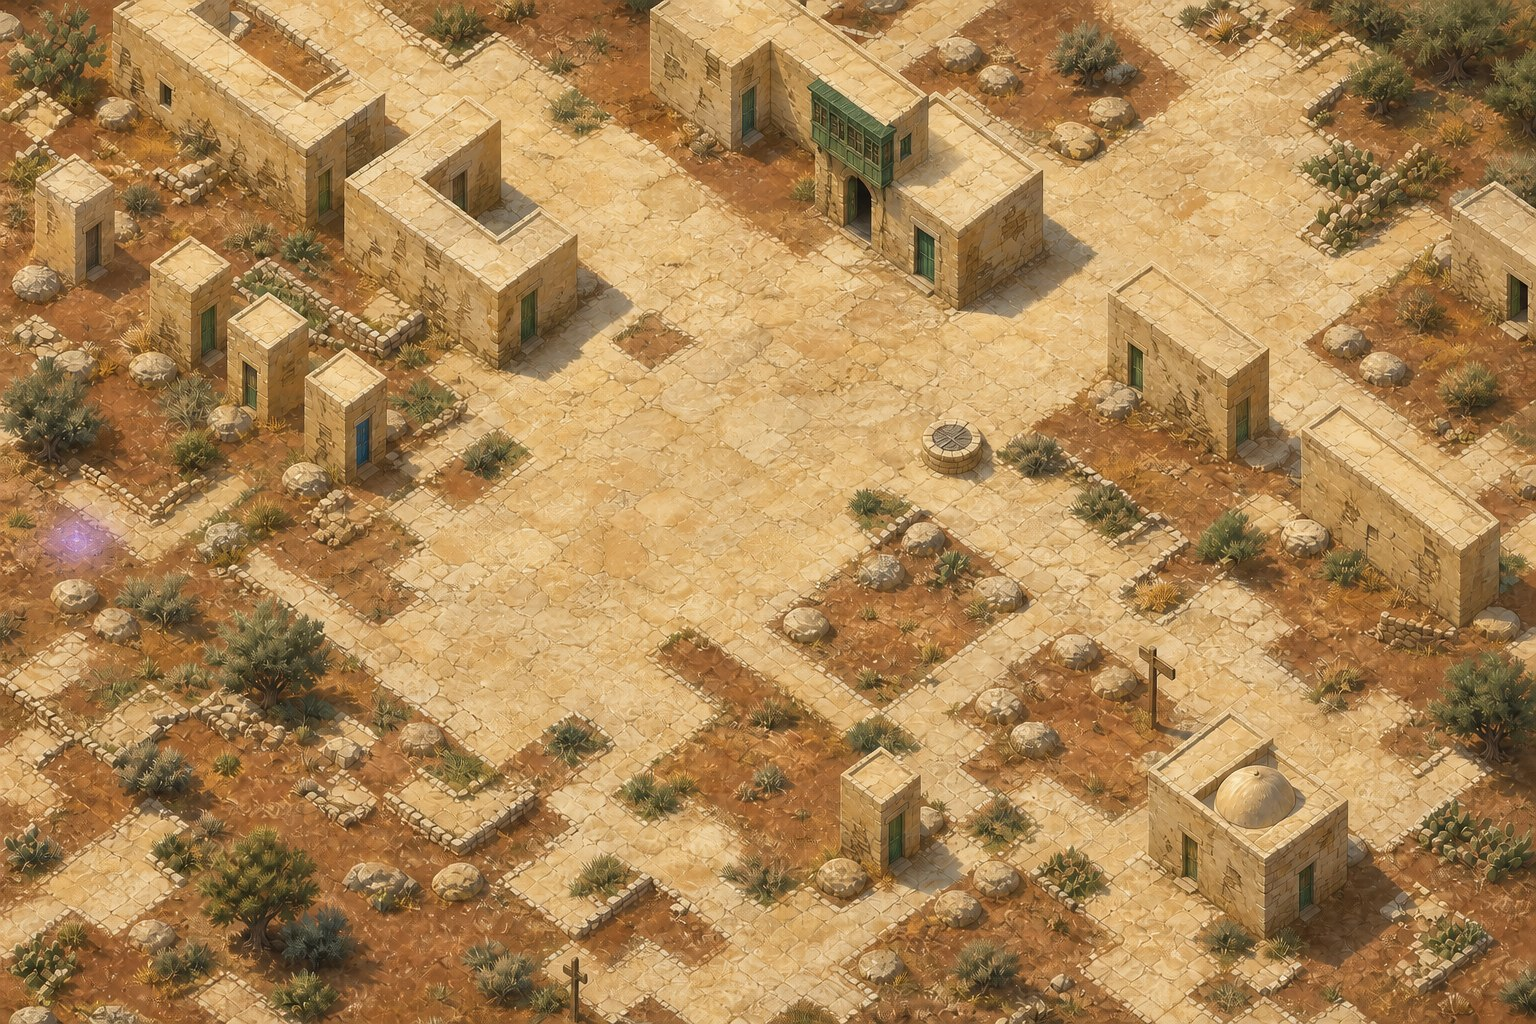
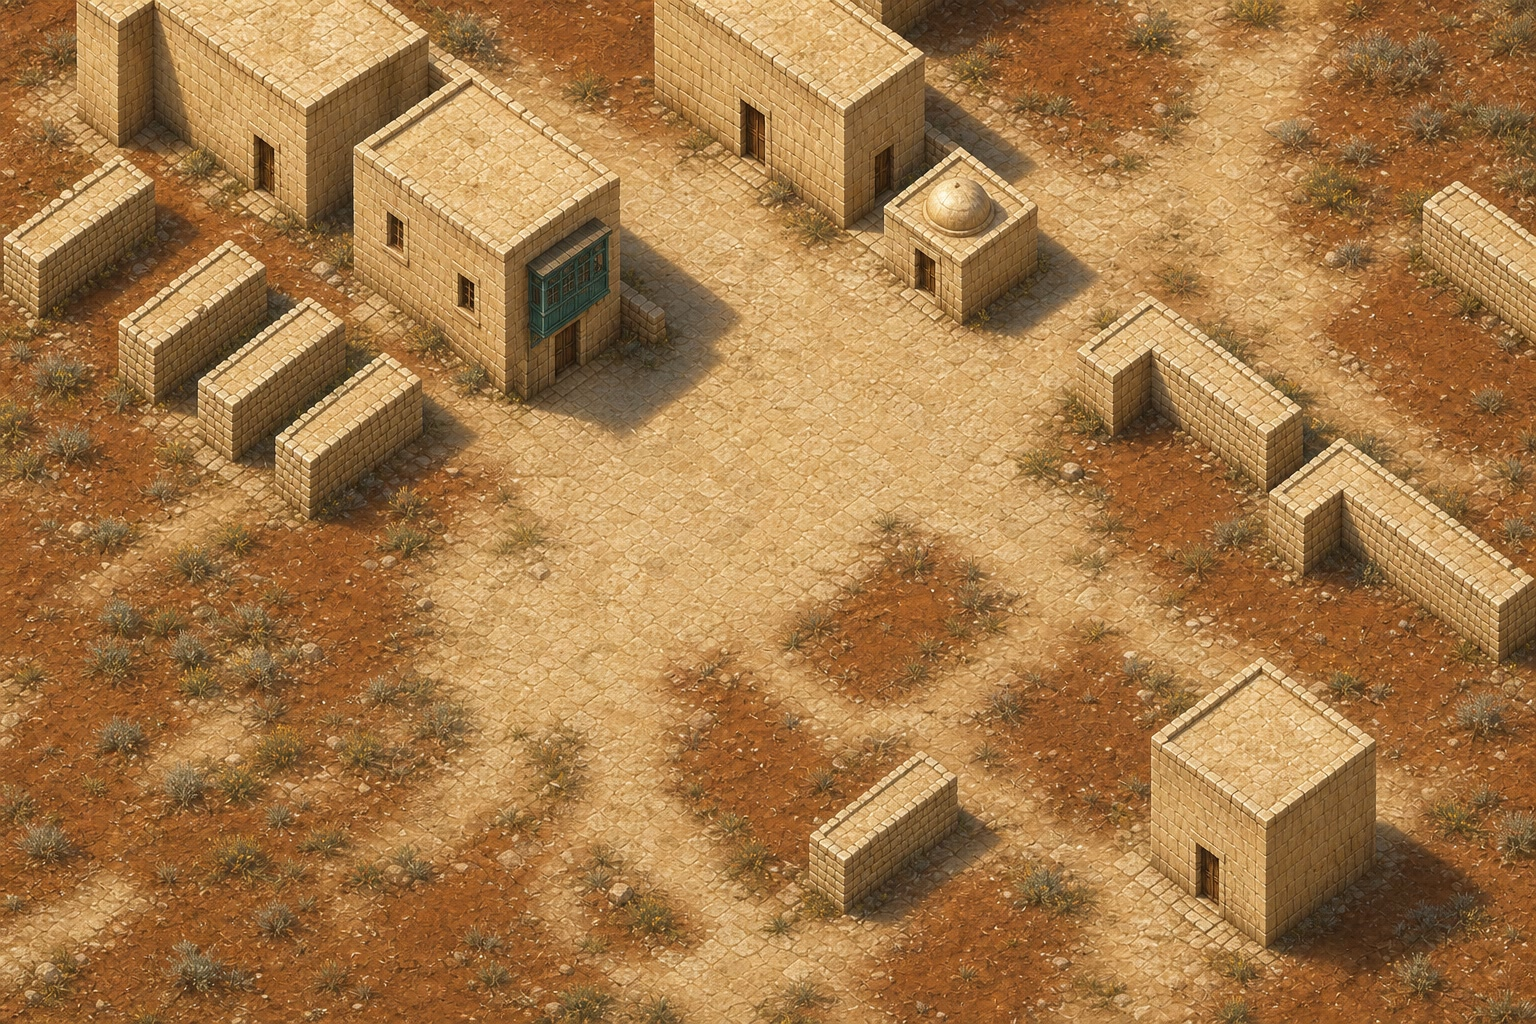
build 367 — the island is painted, and you can stand behind a building
Sixteen of sixty-three screens are painted pictures rather than tile diamonds:
the arrival screen where the ruin puts you out, the whole road south to the
necropolis, all of Wayrest, and both dungeon mouths drawn as rock-cut descents
you can see you enter. Void per screen is 0.0-1.1% where the bare diamond left
68%.

Buildings are solid volumes now — a lit face, a shaded face, one sun for the
whole island, a cast shadow on the ground, and a gallarija on the tavern.

OCCLUSION IS SOLVED, not deferred: the tall parts are cut back out of the
painting per footprint tile and depth-sorted with the actors, so standing
behind a building hides you and standing in front does not. Proven both ways
headless.

The 47 unpainted screens fall back to the tile renderer, so nothing regresses
while the rest are painted.

Claude-Session: https://claude.ai/code/session_01Q55X5n8LA6xgNosSpJws7r

diff --git a/qawmien/world.js b/qawmien/world.js
@@ -737,6 +737,138 @@ const WORLD = (() => {
     return (SURROUND[m.id] = best.length ? best : [WT.TILES.GRASS]);
   }
 
+  /* ── OCCLUSION on painted maps ────────────────────────────────────────
+     A painted background is ONE picture, so the hero drawn after it always
+     stood in front of every wall — walking "behind" the tavern drew him on
+     its roof. Dofus composes exactly this split: a background JPEG per map,
+     plus everything a character can pass behind as separate sprites drawn
+     in base-Y order. So the tall things are CUT BACK OUT of the painting:
+     one canvas piece per building (and per tree), clipped to the same prism
+     silhouette the template extruded (tools/blockout.py, BLD_H there — the
+     numbers below are that shared arithmetic), anchored at its base tile
+     and depth-sorted into the same queue as actors and the hero. Hero
+     behind the wall: the piece draws after him and hides him. Hero in
+     front: his depth is greater and he draws over it. The picture never
+     decides walkability; this never looks at block[][] for anything but
+     WHERE the tall things stand. */
+  function buildOcclusion(map, img, R){
+    const D_ROCK = 26, D_TREE = 24, SPAN = 4;
+    const BLD_H = TH * 2.0, LOW_H = TH * 0.8;
+    const wall = (c, r) => c >= 0 && r >= 0 && c < map.w && r < map.h &&
+                           !!map.block[r][c] && map.decor[r][c] === D_ROCK;
+    const pieces = [], seen = {};
+    const comps = [];
+    for (let r = 0; r < map.h; r++)
+      for (let c = 0; c < map.w; c++){
+        if (!wall(c, r) || seen[c + ',' + r]) continue;
+        const comp = [], st = [[c, r]];
+        seen[c + ',' + r] = 1;
+        while (st.length){
+          const [cc, rr] = st.pop();
+          comp.push([cc, rr]);
+          for (const [dc, dr] of [[1,0],[-1,0],[0,1],[0,-1]]){
+            const nc = cc + dc, nr = rr + dr;
+            if (wall(nc, nr) && !seen[nc + ',' + nr]){
+              seen[nc + ',' + nr] = 1; st.push([nc, nr]);
+            }
+          }
+        }
+        comps.push(comp);
+      }
+    for (const comp of comps){
+      if (comp.length < 3) continue;               /* a boulder, painted flat */
+      /* the footprint is the rectilinear closure — same rule as the
+         template, so the cut-out clips exactly what was extruded */
+      const foot = {};
+      for (const [c, r] of comp) foot[c + ',' + r] = 1;
+      const rows = {}, cols = {};
+      for (const [c, r] of comp){
+        (rows[r] = rows[r] || []).push(c);
+        (cols[c] = cols[c] || []).push(r);
+      }
+      for (const r in rows){
+        const cs = rows[r].sort((a, b) => a - b);
+        for (let i = 1; i < cs.length; i++)
+          if (cs[i] - cs[i-1] > 1 && cs[i] - cs[i-1] <= SPAN + 1)
+            for (let c = cs[i-1] + 1; c < cs[i]; c++) foot[c + ',' + r] = 1;
+      }
+      for (const c in cols){
+        const rs = cols[c].sort((a, b) => a - b);
+        for (let i = 1; i < rs.length; i++)
+          if (rs[i] - rs[i-1] > 1 && rs[i] - rs[i-1] <= SPAN + 1)
+            for (let r = rs[i-1] + 1; r < rs[i]; r++) foot[c + ',' + r] = 1;
+      }
+      /* ONE PIECE PER TILE, not per building. A terrace of party-walled
+         houses spans depths 5..16; cut as one piece at depth 16 it hid a
+         hero standing in FRONT of its shallow west end (seen in the first
+         headless run). Per tile, each column of the volume sorts at its
+         own base depth like any decor tile, the pieces are cut from the
+         same painting so together they re-compose it exactly, and the
+         hero slots between them wherever he truly stands. */
+      const tiles = Object.keys(foot).map(k => k.split(',').map(Number));
+      const H = tiles.length === comp.length ? LOW_H : BLD_H;
+      for (const t of tiles) pieces.push(makePiece([t], H, img, R));
+    }
+    /* trees: a canopy is the other thing a hero walks behind */
+    for (let r = 0; r < map.h; r++)
+      for (let c = 0; c < map.w; c++)
+        if (map.block[r][c] && map.decor[r][c] === D_TREE)
+          pieces.push(makeTreePiece(c, r, img, R));
+    return pieces;
+  }
+
+  function pieceFromClip(tiles, img, R, bounds, clip){
+    const [x0, y0, x1, y1] = bounds;
+    const w = Math.ceil(x1 - x0), h = Math.ceil(y1 - y0);
+    const cv = document.createElement('canvas');
+    /* board units 1:1 — the same resolution the background is drawn at */
+    cv.width = w; cv.height = h;
+    const c2 = cv.getContext('2d');
+    c2.translate(-x0, -y0);
+    clip(c2);
+    c2.clip();
+    c2.imageSmoothingEnabled = true;
+    c2.drawImage(img, R.x, R.y, R.w, R.h);
+    let d = -1e9;
+    for (const [c, r] of tiles) d = Math.max(d, c + r);
+    return { cv, x: x0, y: y0, d };
+  }
+
+  function makePiece(tiles, H, img, R){
+    const HEAD = TH * 0.9;               /* domes and parapets overpaint the box */
+    const T = H + HEAD;                  /* clip the full raised top face */
+    let x0 = 1e9, y0 = 1e9, x1 = -1e9, y1 = -1e9;
+    const hexes = [];
+    for (const [c, r] of tiles){
+      const bx = WT.isoX(c, r), by = WT.isoY(c, r);
+      hexes.push([[bx, by - T - TH / 2], [bx + TW / 2, by - T],
+                  [bx + TW / 2, by], [bx, by + TH / 2],
+                  [bx - TW / 2, by], [bx - TW / 2, by - T]]);
+      x0 = Math.min(x0, bx - TW / 2); x1 = Math.max(x1, bx + TW / 2);
+      y0 = Math.min(y0, by - T - TH / 2); y1 = Math.max(y1, by + TH / 2);
+    }
+    return pieceFromClip(tiles, img, R, [x0, y0, x1, y1], (c2) => {
+      c2.beginPath();
+      for (const hx of hexes){
+        c2.moveTo(hx[0][0], hx[0][1]);
+        for (let i = 1; i < hx.length; i++) c2.lineTo(hx[i][0], hx[i][1]);
+        c2.closePath();
+      }
+    });
+  }
+
+  function makeTreePiece(c, r, img, R){
+    const bx = WT.isoX(c, r), by = WT.isoY(c, r);
+    const cx = bx + TW * 0.04, cy = by - TH * 1.25;    /* template's canopy */
+    const rx = TW * 0.60, ry = TH * 0.80;
+    const bounds = [cx - rx, cy - ry, cx + rx, Math.max(cy + ry, by + 2)];
+    return pieceFromClip([[c, r]], img, R, bounds, (c2) => {
+      c2.beginPath();
+      c2.ellipse(cx, cy, rx, ry, 0, 0, Math.PI * 2);
+      c2.rect(bx - 5, by - TH * 1.25, 10, TH * 1.25 + 2);
+    });
+  }
+
   function draw(g){
     fit(g.canvas);
     g.setTransform(1, 0, 0, 1, 0, 0);
@@ -802,6 +934,7 @@ const WORLD = (() => {
         }
         g.imageSmoothingEnabled = true;
         g.drawImage(b.img, R.x, R.y, R.w, R.h);
+        if (!map._occ) map._occ = buildOcclusion(map, b.img, R);
         bgUp = true;
       }
     }
@@ -876,6 +1009,10 @@ const WORLD = (() => {
         const i = map.decor[r][c];
         if (i) q.push({ d: c + r, k: 0, i, x: WT.isoX(c, r), y: WT.isoY(c, r) });
       }
+    /* the tall parts of the painting, cut back out so they can occlude:
+       depth-sorted by their base like any decor (see buildOcclusion) */
+    if (bgUp && map._occ)
+      for (const p of map._occ) q.push({ d: p.d, k: 0, occ: p });
     for (const a of actors)
       q.push({ d: a.mk.c + a.mk.r, k: 1, a,
                x: WT.isoX(a.mk.c, a.mk.r), y: WT.isoY(a.mk.c, a.mk.r) });
@@ -883,7 +1020,8 @@ const WORLD = (() => {
     q.sort((A, B) => (A.d - B.d) || (A.k - B.k));    /* stable for the rest */
     for (const e of q){
       if (e.k === 0){
-        if (atlas && atlas.ready) WT.drawTile(g, atlas.img, e.i, e.x, e.y);
+        if (e.occ) g.drawImage(e.occ.cv, e.occ.x, e.occ.y);
+        else if (atlas && atlas.ready) WT.drawTile(g, atlas.img, e.i, e.x, e.y);
         else fbDecor(g, e.i, e.x, e.y);
       }
       else if (e.hero) drawHero(g);

diff --git a/sw.js b/sw.js
@@ -2,7 +2,7 @@
    Deliberately narrow: it never touches cross-origin requests and never
    touches range requests, because a greedy SW broke a previous project.
    Bump CACHE on every deploy. */
-const CACHE = 'karti-v366';
+const CACHE = 'karti-v367';
 /* ── THE SHELL, NOT THE GAME ─────────────────────────────────────────────────
    This list used to be 205 entries / ~24 MB — every game module and every
    per-game portrait — so a first install (and EVERY version bump) re-fetched

diff --git a/qawmien/maps/field-3-6.js b/qawmien/maps/field-3-6.js
@@ -11,8 +11,8 @@ window.MAPS['field-3-6'] = {
      from this map's own blockout template (tools/blockout.py --map
      field-3-6), so the art agrees with block[][] by construction.
      block/markers/neighbours below still rule walkability, untouched.
-     NOTE for regeneration: mkworld.py does not know this key yet — if
-     the world is regenerated, re-add `bg` here. */
+     mkworld.py re-derives this key from art/bg/<id>.jpg existing, so a
+     regeneration keeps every painting. */
   bg: 'art/bg/field-3-6.jpg',
   ground: [
     [20,20,20,20,20,20,20,16,20,16],

diff --git a/index.html b/index.html
@@ -2449,7 +2449,7 @@ window.KARTI_THEME = (function(){
    over a MessageChannel, and the answer comes from the script iOS actually
    activated — not from the server, not from a constant. Keep BUILD in step
    with CACHE in sw.js (bump both on every deploy). */
-var KARTI_BUILD = 366;
+var KARTI_BUILD = 367;
 window.KARTI_BUILD = KARTI_BUILD;
 window.swVersion = function(){
   return new Promise(function(resolve){

diff --git a/qawmien/maps/field-1-1.js b/qawmien/maps/field-1-1.js
@@ -6,6 +6,7 @@
 window.MAPS = window.MAPS || {};
 window.MAPS['field-1-1'] = {
   id: 'field-1-1', w: 10, h: 10, atlas: 'art/world.png',
+  bg: 'art/bg/field-1-1.jpg',
   ground: [
     [19,19,19,19,19,19,20,20,20,17],
     [19,19,19,19,19,19,20,20,20,20],

diff --git a/qawmien/maps/field-2-1.js b/qawmien/maps/field-2-1.js
@@ -6,6 +6,7 @@
 window.MAPS = window.MAPS || {};
 window.MAPS['field-2-1'] = {
   id: 'field-2-1', w: 10, h: 10, atlas: 'art/world.png',
+  bg: 'art/bg/field-2-1.jpg',
   ground: [
     [17,20,17,20,16,17,18,17,16,16],
     [20,19,20,20,16,16,16,16,16,16],

diff --git a/qawmien/maps/field-2-2.js b/qawmien/maps/field-2-2.js
@@ -6,6 +6,7 @@
 window.MAPS = window.MAPS || {};
 window.MAPS['field-2-2'] = {
   id: 'field-2-2', w: 10, h: 10, atlas: 'art/world.png',
+  bg: 'art/bg/field-2-2.jpg',
   ground: [
     [20,20,16,16,16,16,16,17,16,16],
     [17,20,16,18,16,18,16,18,16,17],

diff --git a/qawmien/maps/field-2-3.js b/qawmien/maps/field-2-3.js
@@ -6,6 +6,7 @@
 window.MAPS = window.MAPS || {};
 window.MAPS['field-2-3'] = {
   id: 'field-2-3', w: 10, h: 10, atlas: 'art/world.png',
+  bg: 'art/bg/field-2-3.jpg',
   ground: [
     [17,19,19,19,16,19,16,16,16,16],
     [19,17,17,17,17,17,17,16,16,17],

diff --git a/qawmien/maps/field-2-4.js b/qawmien/maps/field-2-4.js
@@ -6,6 +6,7 @@
 window.MAPS = window.MAPS || {};
 window.MAPS['field-2-4'] = {
   id: 'field-2-4', w: 10, h: 10, atlas: 'art/world.png',
+  bg: 'art/bg/field-2-4.jpg',
   ground: [
     [16,17,17,17,16,19,16,17,17,17],
     [17,17,17,16,17,17,16,19,17,19],

diff --git a/qawmien/maps/field-2-5.js b/qawmien/maps/field-2-5.js
@@ -6,6 +6,7 @@
 window.MAPS = window.MAPS || {};
 window.MAPS['field-2-5'] = {
   id: 'field-2-5', w: 10, h: 10, atlas: 'art/world.png',
+  bg: 'art/bg/field-2-5.jpg',
   ground: [
     [16,16,17,17,19,19,19,19,19,20],
     [17,17,16,16,19,19,19,20,19,19],

diff --git a/qawmien/maps/field-2-6.js b/qawmien/maps/field-2-6.js
@@ -6,6 +6,7 @@
 window.MAPS = window.MAPS || {};
 window.MAPS['field-2-6'] = {
   id: 'field-2-6', w: 10, h: 10, atlas: 'art/world.png',
+  bg: 'art/bg/field-2-6.jpg',
   ground: [
     [19,16,20,20,16,20,20,20,20,20],
     [20,20,20,20,20,20,20,20,20,20],

diff --git a/qawmien/maps/field-2-7.js b/qawmien/maps/field-2-7.js
@@ -6,6 +6,7 @@
 window.MAPS = window.MAPS || {};
 window.MAPS['field-2-7'] = {
   id: 'field-2-7', w: 10, h: 10, atlas: 'art/world.png',
+  bg: 'art/bg/field-2-7.jpg',
   ground: [
     [19,19,19,19,19,19,19,19,19,20],
     [19,19,19,19,17,19,19,19,20,19],
